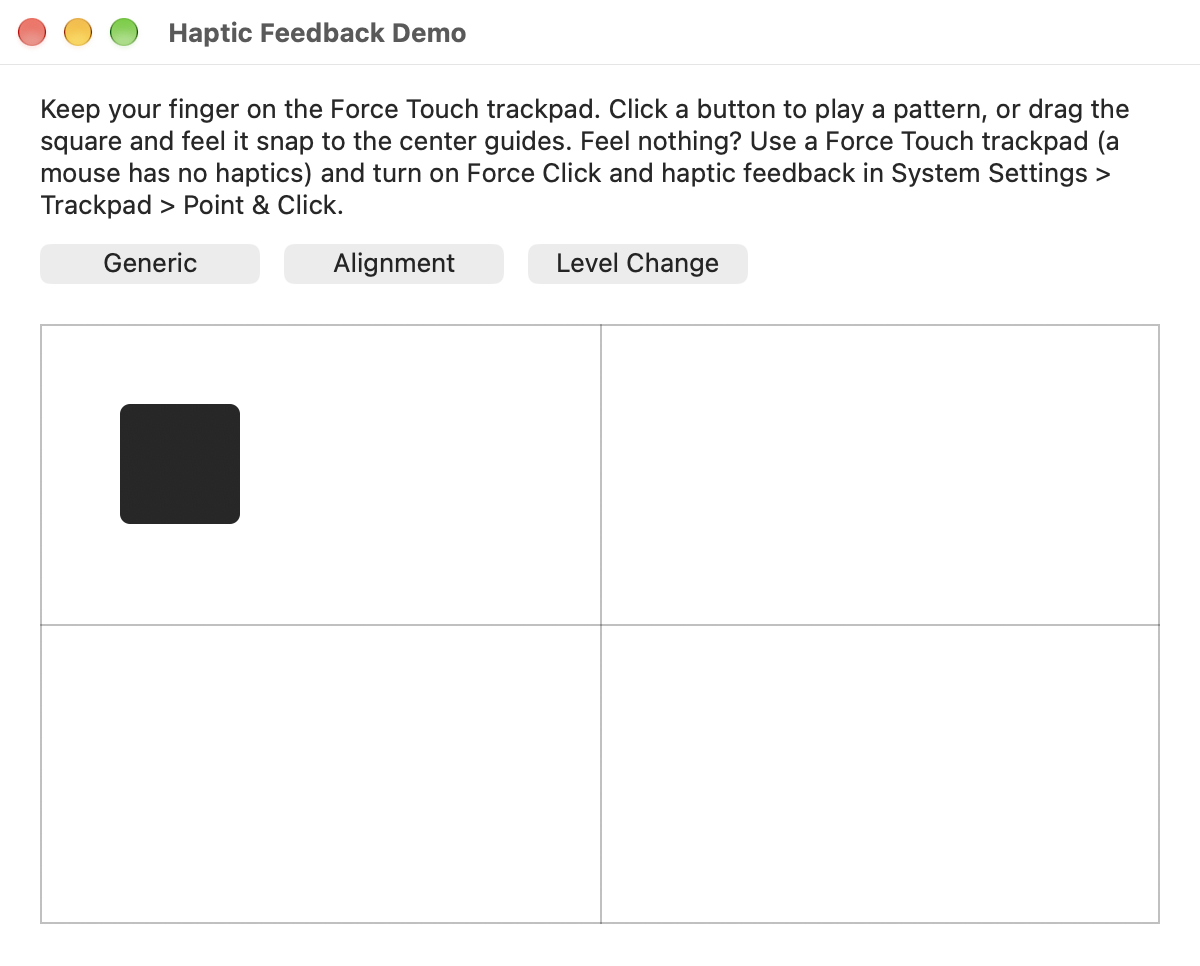
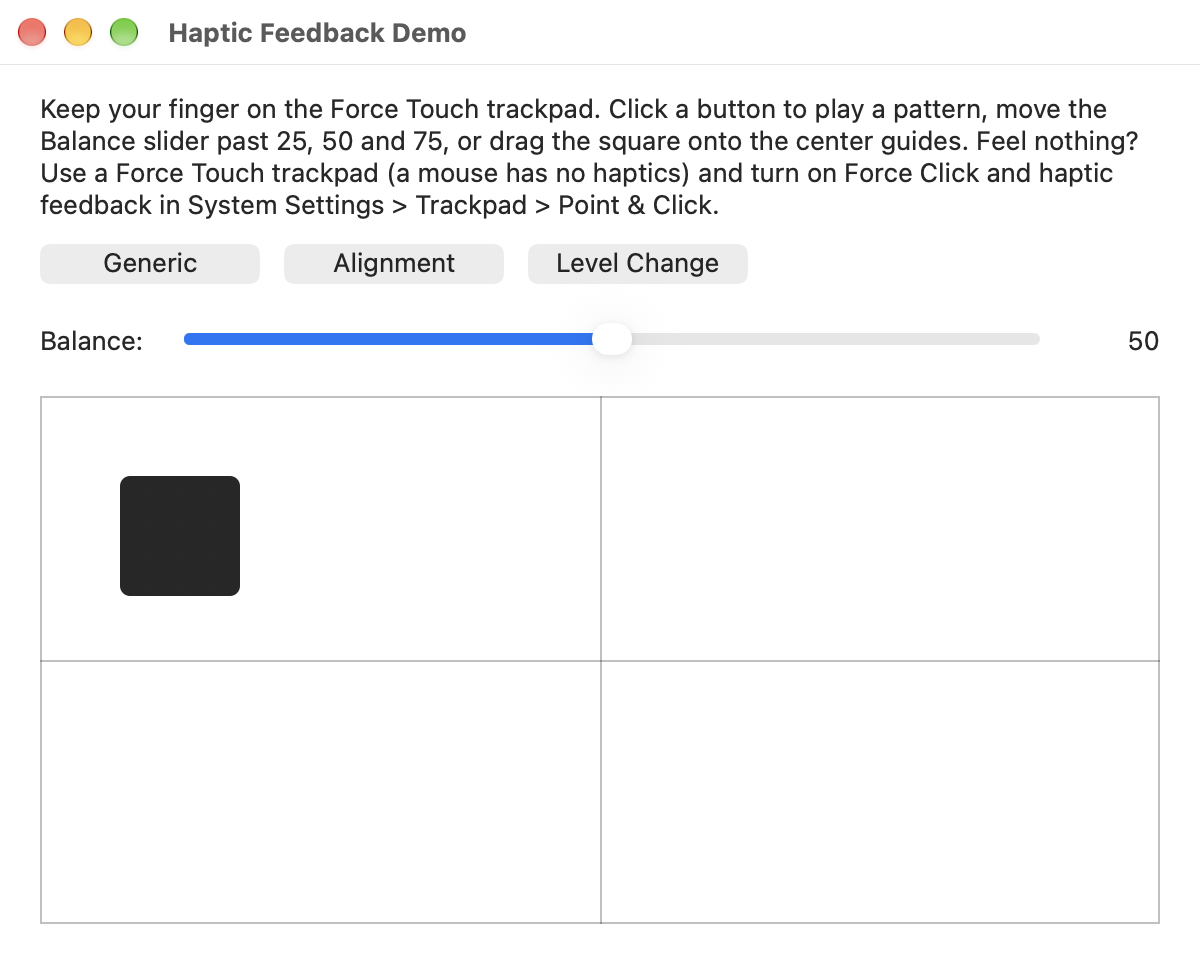
Add MIT license and snapping balance slider demo
The Balance slider snaps to 50 near the center with an alignment
feedback and plays a level change feedback when crossing 25, 50 and 75.
README and screenshot updated.

diff --git a/README.md b/README.md
@@ -2,7 +2,7 @@
 
 A small Xojo class that wraps AppKit's [`NSHapticFeedbackManager`](https://developer.apple.com/documentation/appkit/nshapticfeedbackmanager), so your macOS Xojo apps can play a physical "click" on a Force Touch trackpad, the same way macOS does when a shape snaps to a guide in Keynote or a window edge lines up with another one. People can feel that something happened without looking.
 
-Includes a demo app with buttons for each feedback pattern and a square you can drag that snaps to center guides.
+Includes a demo app with buttons for each feedback pattern, a balance slider that snaps to its center, and a square you can drag that snaps to center guides.
 
 ![Haptic Feedback Demo](Screenshots/demo.png)
 
@@ -59,6 +59,7 @@ Usually you want `PerformanceTimeDefault`, so the click happens exactly when the
 1. Open `Haptic Feedback Manager.xojo_project` in Xojo and click **Run**.
 2. Keep your finger on the trackpad:
    - Click **Generic**, **Alignment** or **Level Change** to play that pattern.
+   - Move the **Balance** slider (0 to 100). Near the center it snaps to 50 with an alignment click, and you feel a level-change click each time you cross 25, 50 or 75.
    - Drag the dark square toward the middle. When its center lines up with a guide, the guide lights up and you feel an alignment click.
 
 ### No feedback felt?
@@ -66,6 +67,49 @@ Usually you want `PerformanceTimeDefault`, so the click happens exactly when the
 - Haptics only work on a Force Touch trackpad. A mouse or an older trackpad has none.
 - Feedback is only felt while your finger touches the trackpad. With the buttons, the pattern plays when you release the click, so keep your finger resting on the trackpad.
 - Check that **Force Click and haptic feedback** is on in **System Settings > Trackpad > Point & Click**.
+
+### Example: a slider that snaps to its center
+
+A practical use is a slider for something like balance or color temperature. Within 3 of the center the value snaps to 50 and plays `PatternAlignment`, once, when it enters that zone. Crossing a 25% mark plays `PatternLevelChange`. See the `BalanceSlider.ValueChanged` event in `Window1`:
+
+```xojo
+Sub ValueChanged()
+  If mUpdatingSlider Then Return // ignore our own snap
+
+  Var newValue As Integer = Me.Value
+  Var playedAlignment As Boolean
+
+  Var inSnapZone As Boolean = Abs(newValue - 50) <= 3
+  If inSnapZone Then
+    If newValue <> 50 Then
+      newValue = 50
+      mUpdatingSlider = True
+      Me.Value = newValue
+      mUpdatingSlider = False
+    End If
+    If Not mSliderSnapped Then
+      PlayPattern(HapticFeedbackManager.PatternAlignment)
+      playedAlignment = True
+    End If
+  End If
+  mSliderSnapped = inSnapZone
+
+  If Not playedAlignment And newValue <> mLastSliderValue Then
+    For mark As Integer = 25 To 75 Step 25
+      If (mLastSliderValue < mark And newValue >= mark) Or (mLastSliderValue > mark And newValue <= mark) Then
+        PlayPattern(HapticFeedbackManager.PatternLevelChange)
+        Exit For mark
+      End If
+    Next
+  End If
+
+  mLastSliderValue = newValue
+End Sub
+```
+
+## License
+
+Released under the [MIT License](LICENSE).
 
 ## Credits
 
